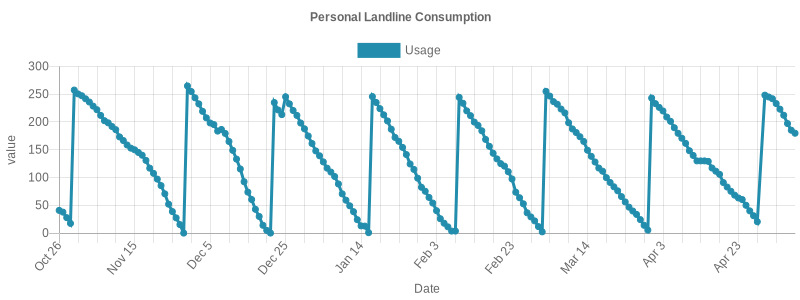
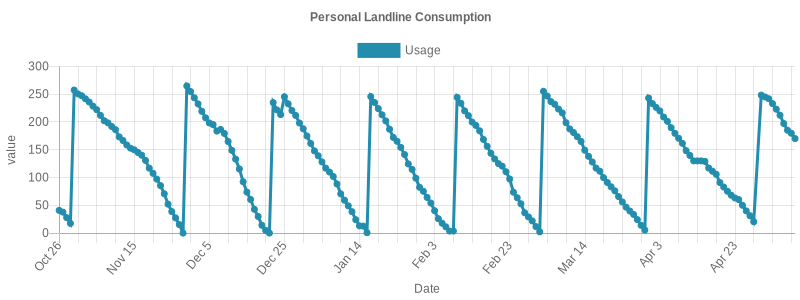
update logs

diff --git a/quota-logs/README.md b/quota-logs/README.md
@@ -193,3 +193,4 @@
 ## Mon May 06 2024 00:34:23 GMT+0200|197.22/250
 ## Tue May 07 2024 00:34:30 GMT+0200|185.12/250
 ## Wed May 08 2024 00:35:30 GMT+0200|179.74/250
+## Thu May 09 2024 00:34:55 GMT+0200|170.13/250
